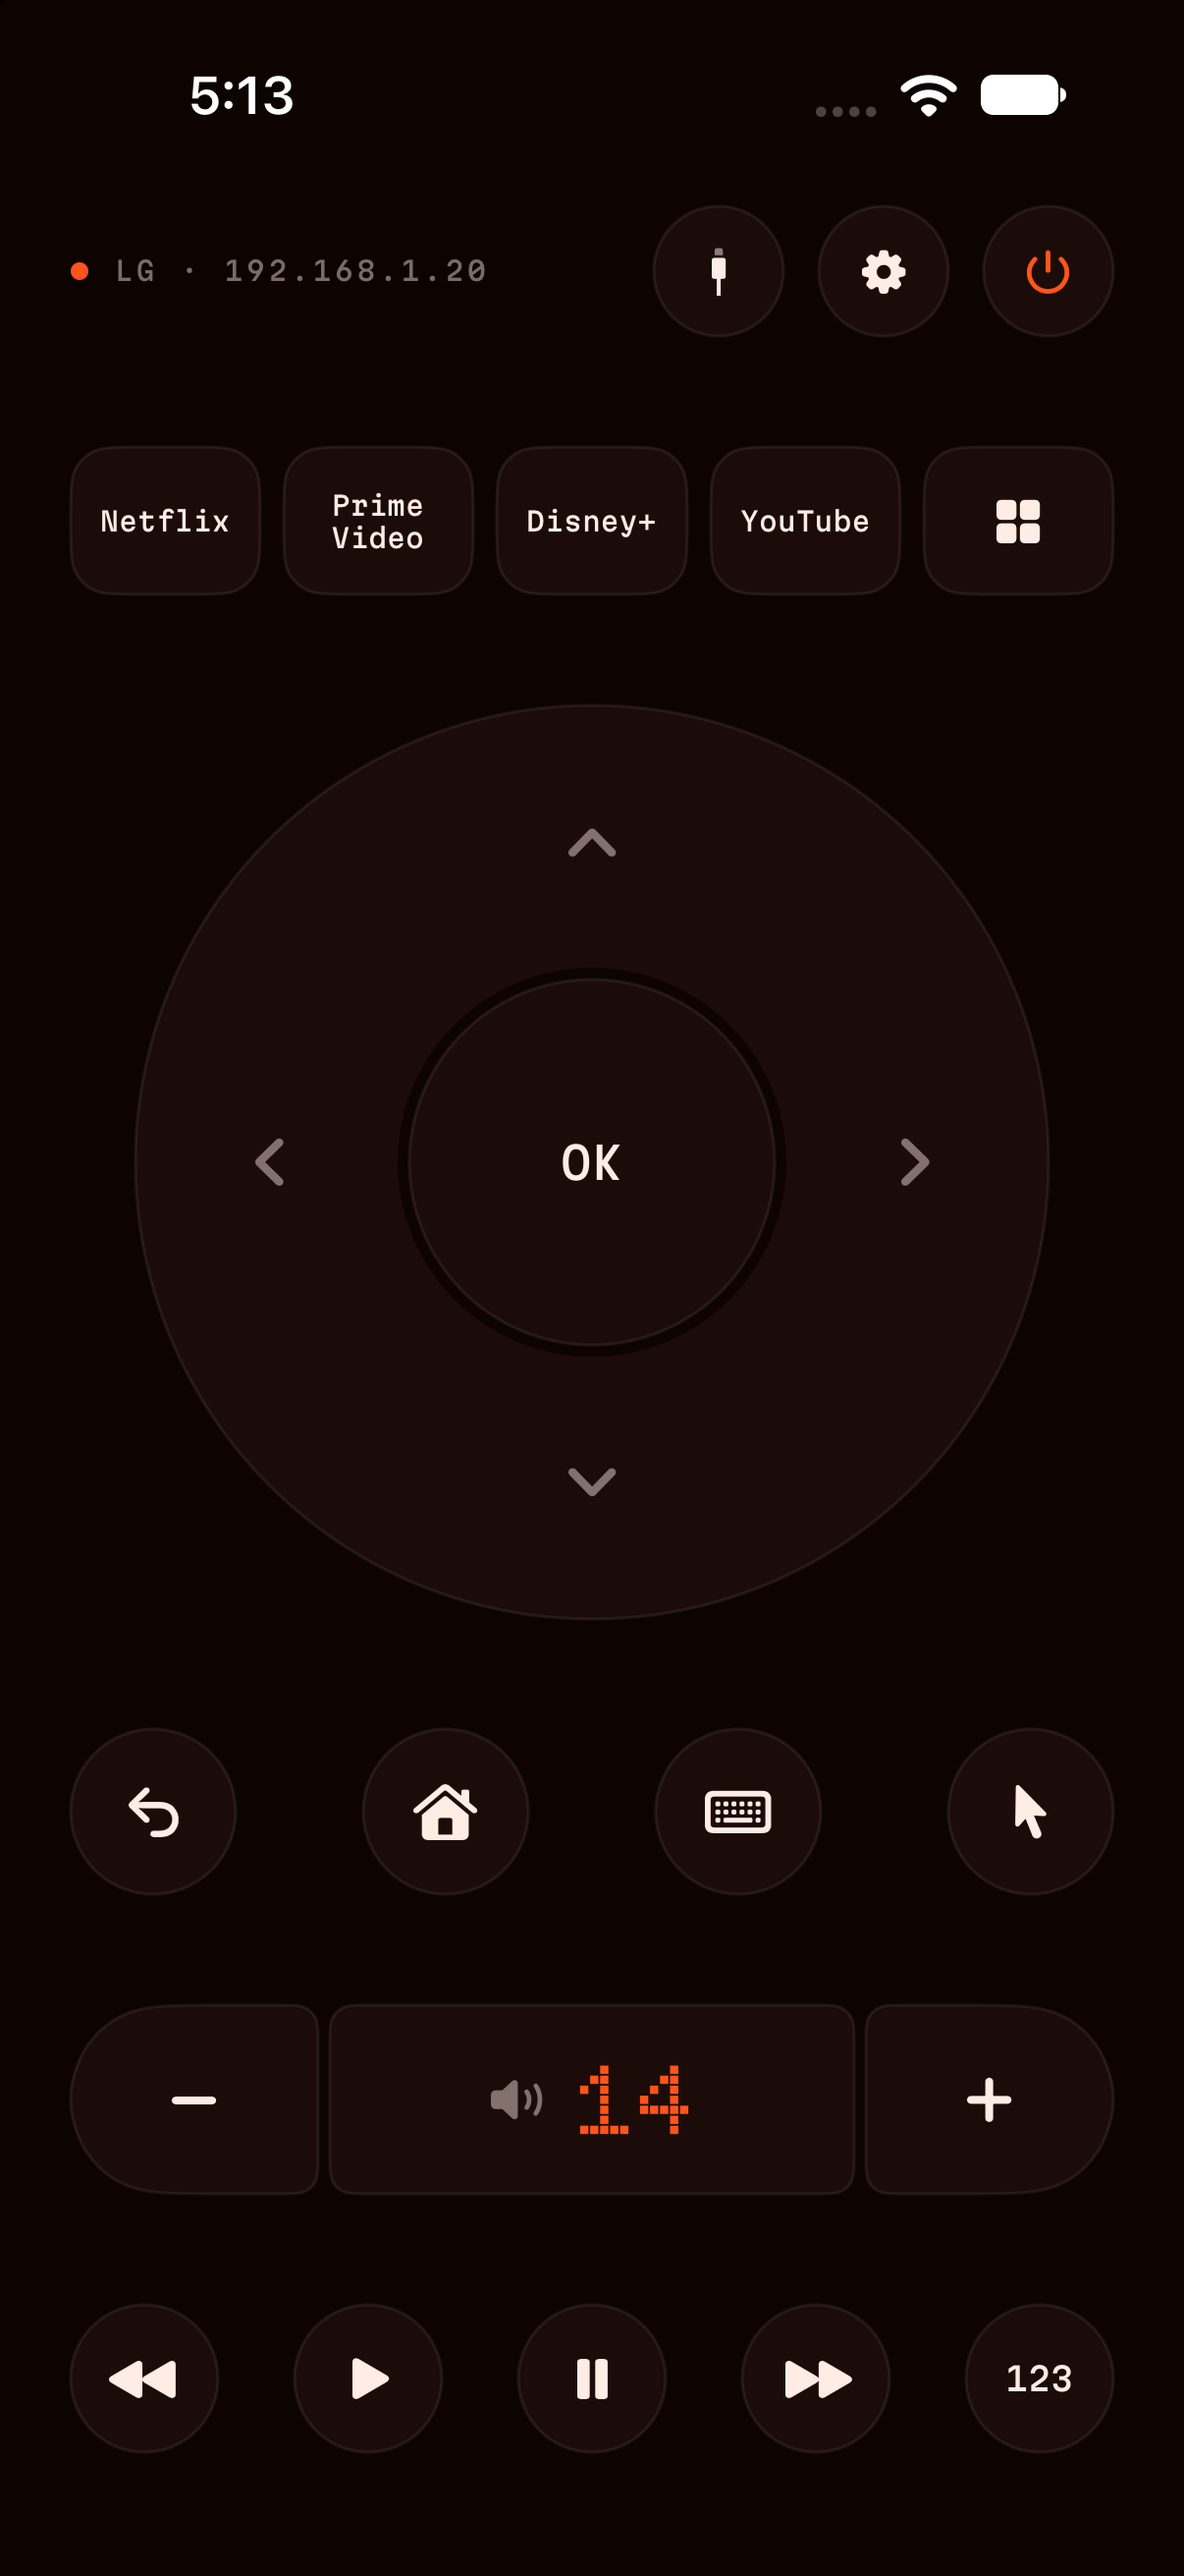
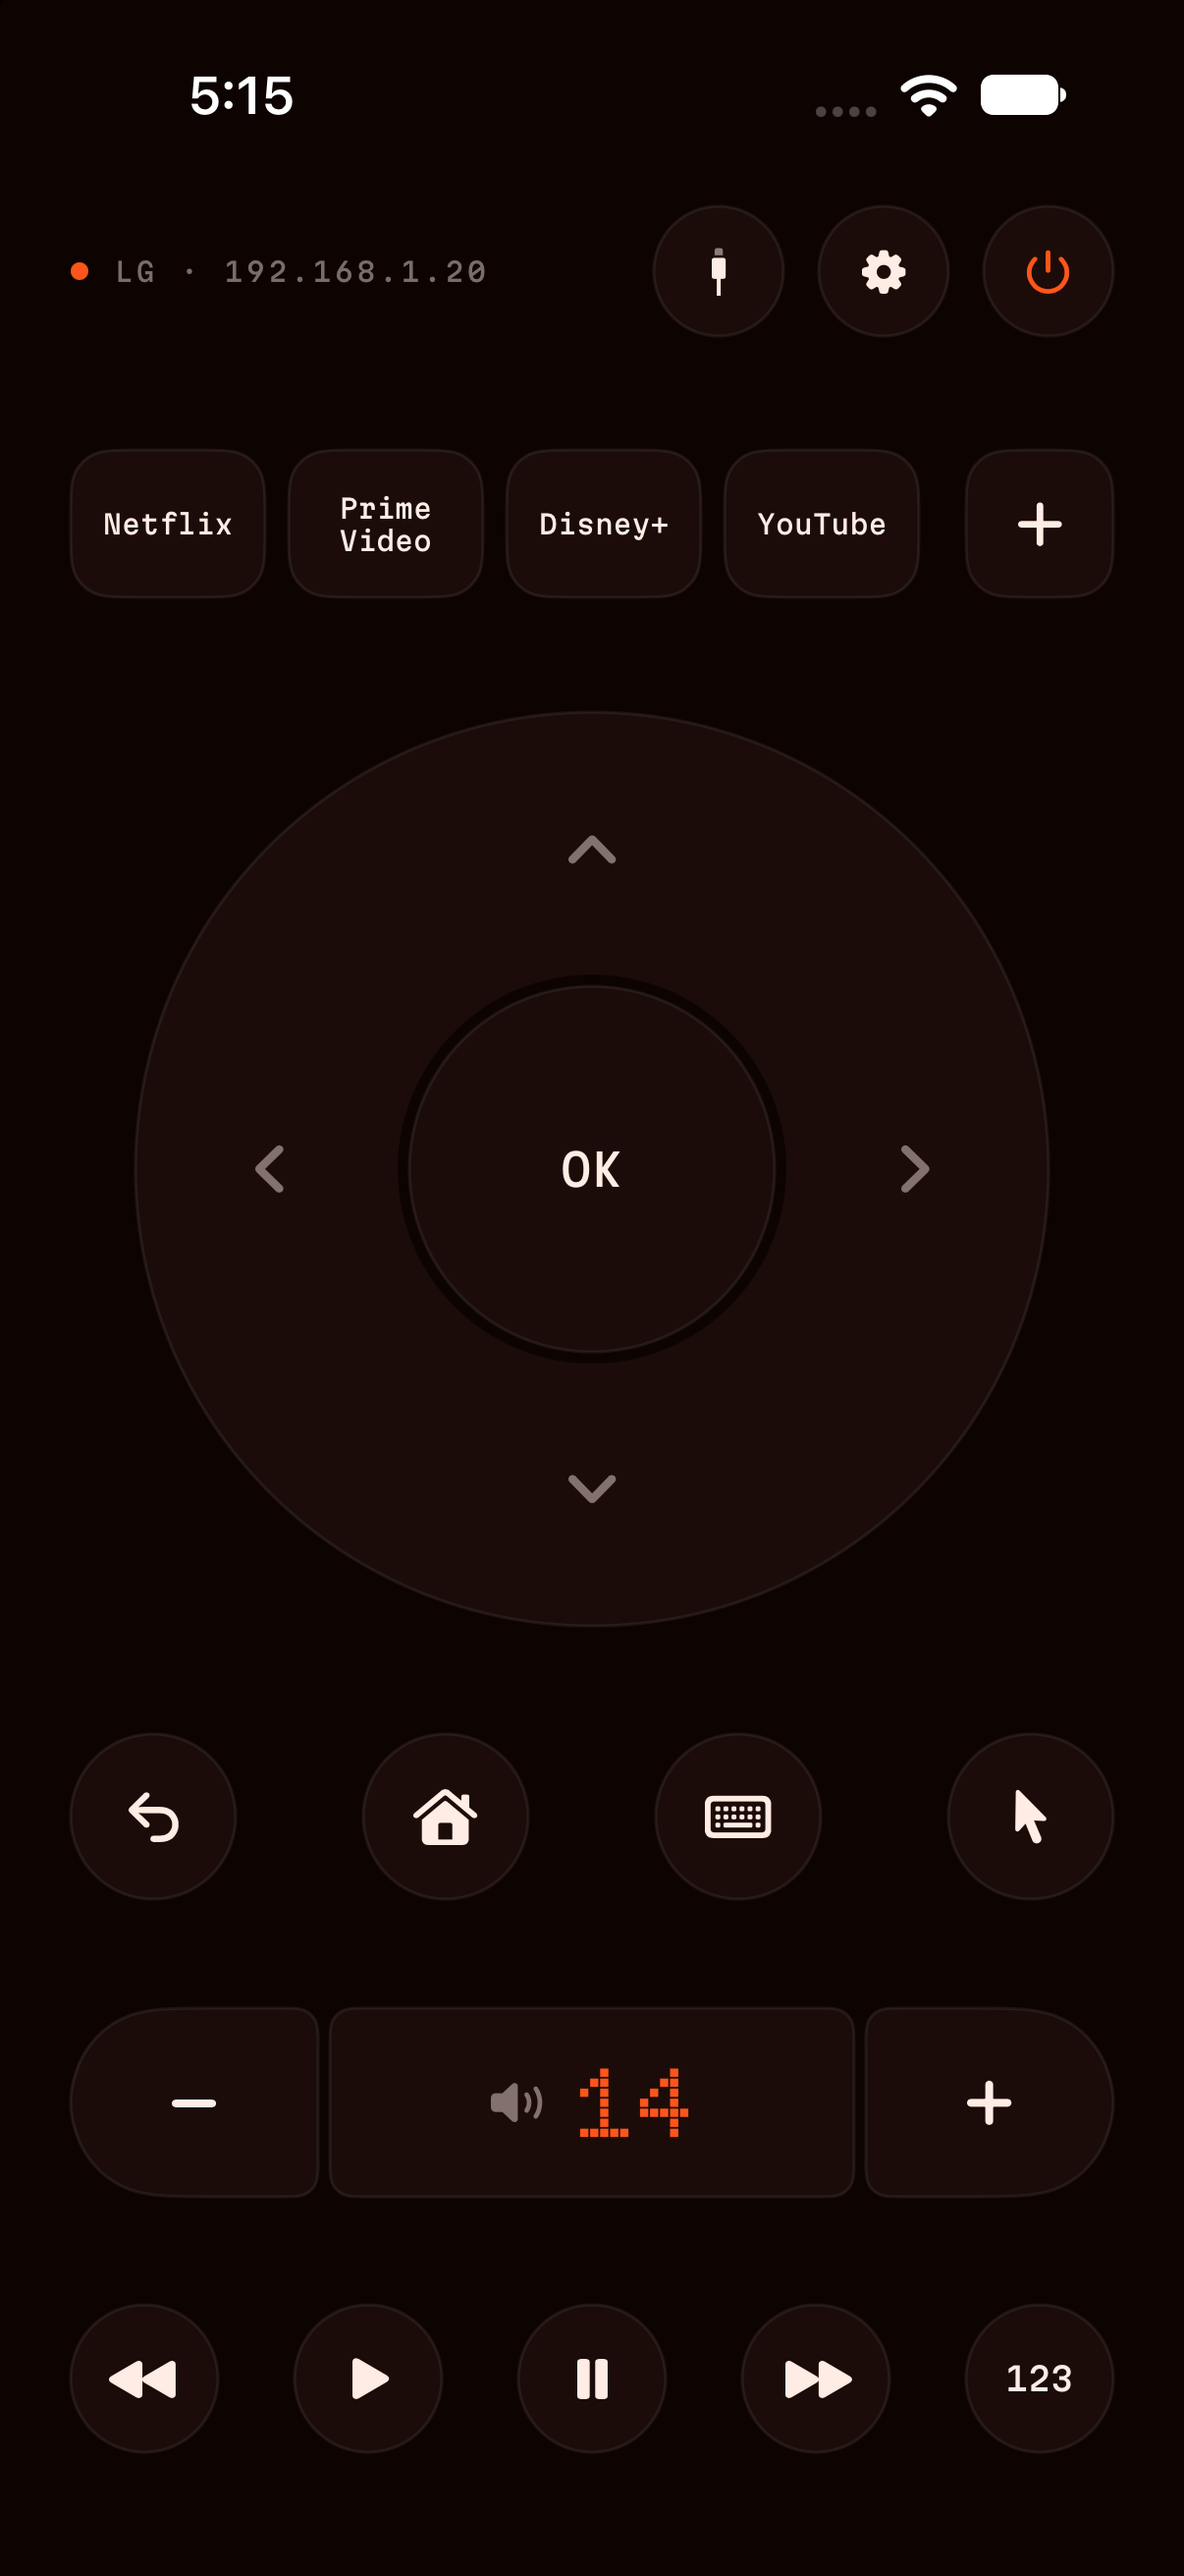
Top strip is your own pinned apps; + adds and removes them

diff --git a/TVRemote/Sheets.swift b/TVRemote/Sheets.swift
@@ -135,32 +135,48 @@ struct NumberPadSheet: View {
     }
 }
 
+/// Every app on the TV. Tap one to put it in the top strip; tap again to take it out.
 struct AppsSheet: View {
     @EnvironmentObject private var tv: TVConnection
-    @Environment(\.dismiss) private var dismiss
+    private let pins = Pins()
 
     private let columns = Array(repeating: GridItem(.flexible(), spacing: 12), count: 4)
 
     var body: some View {
         ScrollView {
             VStack(alignment: .leading, spacing: 16) {
-                Caption("Apps")
+                Caption("Add to the top")
                 LazyVGrid(columns: columns, spacing: 16) {
                     ForEach(tv.apps) { app in
-                        VStack(spacing: 8) {
-                            Key(shape: RoundedRectangle(cornerRadius: 18), action: {
-                                tv.launch(app)
-                                dismiss()
-                            }) {
+                        let pinned = pins.contains(app.id)
+                        Button {
+                            haptic()
+                            pins.toggle(app.id)
+                        } label: {
+                            VStack(spacing: 8) {
                                 AppIcon(app: app, radius: 18, inset: 8)
                                     .frame(width: 72, height: 72)
+                                    .overlay(alignment: .topTrailing) {
+                                        if pinned {
+                                            Image(systemName: "checkmark")
+                                                .font(.system(size: 11, weight: .bold))
+                                                .foregroundStyle(Theme.background)
+                                                .frame(width: 22, height: 22)
+                                                .background(Theme.accent, in: Circle())
+                                                .overlay(Circle().stroke(Theme.background, lineWidth: 2))
+                                                .offset(x: 6, y: -6)
+                                                .transition(.scale(scale: 0.95).combined(with: .opacity))
+                                        }
+                                    }
+                                    .animation(.easeOut(duration: 0.15), value: pinned)
+                                Text(app.title)
+                                    .font(.caption)
+                                    .foregroundStyle(Theme.ink.opacity(0.8))
+                                    .lineLimit(1)
+                                    .frame(maxWidth: 80)
                             }
-                            Text(app.title)
-                                .font(.caption)
-                                .foregroundStyle(Theme.ink.opacity(0.8))
-                                .lineLimit(1)
-                                .frame(maxWidth: 80)
                         }
+                        .buttonStyle(Pressable())
                     }
                 }
             }

diff --git a/TVRemote/Theme.swift b/TVRemote/Theme.swift
@@ -112,6 +112,47 @@ struct Key<Label: View, Background: Shape>: View {
     }
 }
 
+/// The same look as `Key`, as a ButtonStyle, for keys inside scroll views
+/// (a Button lets the scroll view take the drag; Key's gesture would swallow it).
+struct KeyStyle<S: Shape>: ButtonStyle {
+    let shape: S
+
+    func makeBody(configuration: Configuration) -> some View {
+        configuration.label
+            .foregroundStyle(Theme.ink)
+            .background(configuration.isPressed ? Theme.keyPressed : Theme.key, in: shape)
+            .overlay(shape.stroke(Theme.hairline, lineWidth: 1))
+            .shadow(color: configuration.isPressed ? .clear : Theme.shadow, radius: 2, y: 1)
+            .contentShape(shape)
+            .scaleEffect(configuration.isPressed ? 0.97 : 1)
+            .animation(.easeOut(duration: 0.15), value: configuration.isPressed)
+    }
+}
+
+/// The apps you've put in the top strip, in the order you added them.
+/// Stored as app ids; seeded once with LG's own shortcut keys.
+struct Pins: DynamicProperty {
+    @AppStorage("pins") private var raw = ""
+    @AppStorage("pinsSeeded") private var seeded = false
+
+    var ids: [String] {
+        get { raw.split(separator: ",").map(String.init) }
+        nonmutating set { raw = newValue.joined(separator: ",") }
+    }
+
+    func contains(_ id: String) -> Bool { ids.contains(id) }
+
+    func toggle(_ id: String) {
+        if contains(id) { ids.removeAll { $0 == id } } else { ids.append(id) }
+    }
+
+    func seedIfNeeded(with apps: [TVConnection.App]) {
+        guard !seeded, !apps.isEmpty else { return }
+        ids = apps.map(\.id)
+        seeded = true
+    }
+}
+
 /// The common case: a round key with an SF Symbol.
 struct IconKey: View {
     let symbol: String
@@ -140,5 +181,15 @@ struct Caption: View {
             .font(Theme.mono(9))
             .tracking(1.2)
             .foregroundStyle(Theme.muted)
+    }
+}
+
+/// Presses in slightly, for buttons that aren't keys (the tiles in the apps sheet).
+struct Pressable: ButtonStyle {
+    func makeBody(configuration: Configuration) -> some View {
+        configuration.label
+            .scaleEffect(configuration.isPressed ? 0.97 : 1)
+            .opacity(configuration.isPressed ? 0.8 : 1)
+            .animation(.easeOut(duration: 0.15), value: configuration.isPressed)
     }
 }

diff --git a/TVRemote/RemoteView.swift b/TVRemote/RemoteView.swift
@@ -41,6 +41,9 @@ struct RemoteView: View {
         .padding(.top, 8)
         .padding(.bottom, 8)
         .background(Theme.background.ignoresSafeArea())
+        #if DEBUG
+        .onAppear { if CommandLine.arguments.contains("-apps") { sheet = .apps } }
+        #endif
         .sheet(item: $sheet) { kind in
             Group {
                 switch kind {
@@ -97,23 +100,38 @@ private struct TopBar: View {
 private struct AppKeys: View {
     @EnvironmentObject private var tv: TVConnection
     @Binding var sheet: Sheet?
+    private let pins = Pins()
+
+    private var pinned: [TVConnection.App] {
+        pins.ids.compactMap { id in tv.apps.first { $0.id == id } }
+    }
 
     var body: some View {
         HStack(spacing: 8) {
-            ForEach(tv.shortcuts) { app in
-                Key(shape: RoundedRectangle(cornerRadius: 14), action: { tv.launch(app) }) {
-                    AppIcon(app: app, inset: 4)
-                        .frame(maxWidth: .infinity)
-                        .frame(height: 50)
+            ScrollView(.horizontal, showsIndicators: false) {
+                HStack(spacing: 8) {
+                    ForEach(pinned) { app in
+                        Button {
+                            haptic()
+                            tv.launch(app)
+                        } label: {
+                            AppIcon(app: app, inset: 4).frame(width: 66, height: 50)
+                        }
+                        .buttonStyle(KeyStyle(shape: RoundedRectangle(cornerRadius: 14)))
+                    }
                 }
+                .padding(.vertical, 2)
             }
+            .scrollClipDisabled()
+
             Key(shape: RoundedRectangle(cornerRadius: 14), action: { sheet = .apps }) {
-                Image(systemName: "square.grid.2x2.fill")
-                    .font(.system(size: 16, weight: .semibold))
-                    .frame(maxWidth: .infinity)
-                    .frame(height: 50)
+                Image(systemName: "plus")
+                    .font(.system(size: 18, weight: .semibold))
+                    .frame(width: 50, height: 50)
             }
         }
+        .onAppear { pins.seedIfNeeded(with: tv.shortcuts) }
+        .onChange(of: tv.apps) { pins.seedIfNeeded(with: tv.shortcuts) }
     }
 }
 
